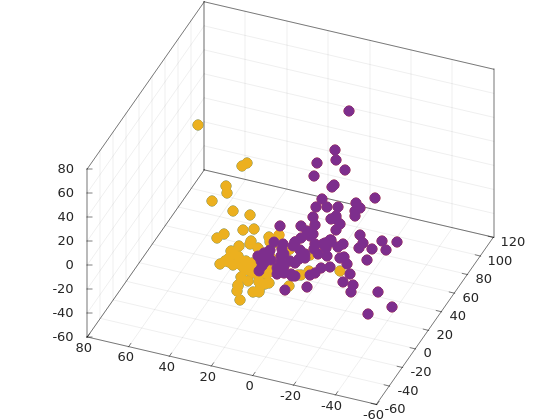
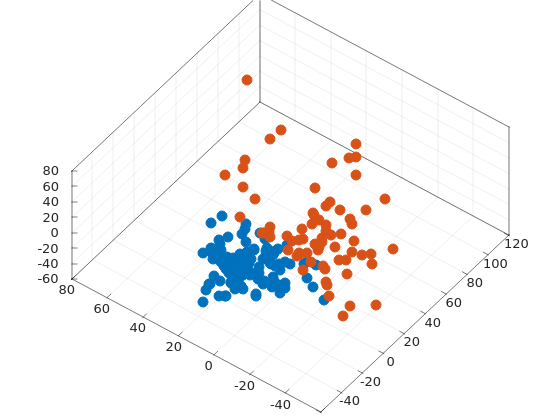
Fix k-means (thanks for nothing xtensor)

diff --git a/src/demo.cpp b/src/demo.cpp
@@ -6,6 +6,7 @@
 #include <string>
 
 #include "xtensor/xarray.hpp"
+#include "xtensor/xadapt.hpp"
 #include "xtensor/xfixed.hpp"
 #include "xtensor/xcsv.hpp"
 #include "xtensor/xrandom.hpp"
@@ -86,6 +87,7 @@ void plotData(xt::xarray<double> observations, xt::xarray<double> groups, xt::xa
         ++it;
     }
 
+    matplot::figure();
     matplot::hold(matplot::on);
     matplot::scatter3(xs, ys, zs)->marker_face(true).marker_size(10);
     xs.clear();
@@ -112,30 +114,37 @@ void plotData(xt::xarray<double> observations, xt::xarray<double> groups, xt::xa
 }
 
 
-xt::xarray<double> computeKMeans(
-    xt::xarray<double> observations,
-    xt::xarray<double> VTxyz,
-    unsigned max_iters
-)
+std::tuple<xt::xarray<double>, xt::xtensor_fixed<double, xt::xshape<2, 3>>>
+computeKMeans(xt::xarray<double> observations,
+              xt::xarray<double> VTxyz,
+              unsigned max_iters)
 {
     xt::xarray<double> points = xt::linalg::dot(observations, xt::transpose(VTxyz));
 
     size_t point_count = points.shape()[0];
-    xt::xarray<double> groups = xt::empty<double>(std::vector<size_t>{point_count, 1});
+    xt::xarray<double> groups = xt::ones<double>(std::vector<size_t>{point_count, 1});
     xt::xarray<double> old_groups = groups;
 
+    xt::xarray<bool> mask;
+    xt::xarray<double> tmp; // TODO: better name
     xt::xtensor_fixed<double, xt::xshape<1, 3>> k0, k1, p;
     // initialize cluster centers -- TODO: randomize
     k0 = xt::view(points, xt::range(2, 3), xt::all());
     k1 = xt::view(points, xt::range(8, 9), xt::all());
 
     for (unsigned i = 0; i < max_iters; ++i) {
-        for (size_t i = 0; i < point_count; ++i) {
-            p = xt::view(points, xt::range(i, i + 1), xt::all());
+        for (size_t j = 0; j < point_count; ++j) {
+            p = xt::view(points, xt::range(j, j + 1), xt::all());
+            //std::cout << "p=" << p << std::endl;
+            //std::cout << "k1=" << k1 << std::endl;
+            //std::cout << "k1-p=" << (k1 - p) << std::endl;
+            //std::cout << "norm k0 - p=" << xt::linalg::norm(xt::eval(k0 - p)) << std::endl;
+            //std::cout << "norm k1 - p=" << xt::linalg::norm(xt::eval(k1 - p)) << std::endl;
+            //std::cout << (xt::linalg::norm(k0 - p) - xt::linalg::norm(k1 - p)) << std::endl;
             if (xt::linalg::norm(k0 - p) < xt::linalg::norm(k1 - p)) {
-                groups(i) = 0.0;
+                groups(j, 0) = 0.0;
             } else {
-                groups(i) = 1.0;
+                groups(j, 0) = 1.0;
             }
         }
 
@@ -143,8 +152,44 @@ xt::xarray<double> computeKMeans(
         old_groups = groups;
 
         // TODO: difficult to parse, split into its own fn (lambda?)?
-        k0 = xt::mean(xt::view(points, xt::drop(xt::where(groups > 0.5)[0]), xt::all()), 0);
-        k1 = xt::mean(xt::view(points, xt::keep(xt::where(groups > 0.5)[0]), xt::all()), 0);
+        //k0 = xt::mean(xt::view(points, xt::drop(xt::argwhere(groups > 0.5)), xt::all()), 0);
+        //k1 = xt::mean(xt::view(points, xt::keep(xt::argwhere(groups > 0.5)), xt::all()), 0);
+        mask = groups > 0.5;
+        mask.reshape({-1, 1});
+        tmp = xt::filter(points, xt::hstack(xt::xtuple(mask, mask, mask)));
+        k0 = xt::mean(tmp.reshape({-1, 3}), 0);
+        mask = groups < 0.5;
+        mask.reshape({-1, 1});
+        //std::cout << xt::hstack(xt::xtuple(mask, groups)) << std::endl;
+        tmp = xt::filter(points, xt::hstack(xt::xtuple(mask, mask, mask)));
+        k1 = xt::mean(tmp.reshape({-1, 3}), 0);
+    }
+
+    auto centers = xt::concatenate(xt::xtuple(k0, k1), 0);
+    return {groups, centers};
+}
+
+xt::xarray<double> testKMeans(xt::xarray<double> observations,
+                              xt::xarray<double> VTxyz,
+                              xt::xtensor_fixed<double, xt::xshape<2, 3>> centers)
+{
+    xt::xarray<double> points = xt::linalg::dot(observations, xt::transpose(VTxyz));
+
+    size_t point_count = points.shape()[0];
+    xt::xarray<double> groups = xt::empty<double>(std::vector<size_t>{point_count, 1});
+
+    xt::xtensor_fixed<double, xt::xshape<1, 3>> k0, k1, p;
+    k0 = xt::view(centers, xt::range(0, 1), xt::all());
+    k1 = xt::view(centers, xt::range(1, 2), xt::all());
+
+    
+    for (size_t i = 0; i < point_count; ++i) {
+        p = xt::view(points, xt::range(i, i + 1), xt::all());
+        if (xt::linalg::norm(k0 - p) < xt::linalg::norm(k1 - p)) {
+            groups(i, 0) = 0.0;
+        } else {
+            groups(i, 0) = 1.0;
+        }
     }
 
     return groups;
@@ -169,11 +214,26 @@ int main()
     auto VTxyz = xt::view(VT, xt::range(0, 3), xt::all());
     plotData(X, train_grp, VTxyz);
 
-    auto kmeans_grp = computeKMeans(X, VTxyz, 100);
-    plotData(X, kmeans_grp, VTxyz);
+    auto [kmeans_training_grp, centers]= computeKMeans(X, VTxyz, 100);
+    plotData(X, kmeans_training_grp, VTxyz);
 
-    auto error = xt::sum(xt::cast<int>(train_grp) ^ xt::cast<int>(kmeans_grp))();
-    std::cout << "Number of misclassified patients: " << error << std::endl;
+    auto error = xt::sum(xt::cast<int>(train_grp) ^ xt::cast<int>(kmeans_training_grp))();
+    std::cout << "Number of misclassified patients on training set: " << error << std::endl;
+
+    // TODO: the xt::stddev call is slow... consider replacing?
+    std::cout << "TODO: xt::stddev is slow, consider replacing" << std::endl;
+    xt::xarray<double> Y = (test_obs - xt::mean(test_obs, 0)) / xt::stddev(test_obs, {0});
+    std::cout << "xt::stddev finished" << std::endl;
+
+    auto kmeans_test_grp = testKMeans(Y, VTxyz, centers);
+    //std::cout << "kmeans_test_grp= " << kmeans_test_grp << std::endl;
+    //std::cout << "test_grp= " << test_grp << std::endl;
+    std::cout << "centers=" << centers << std::endl;
+    plotData(Y, test_grp, VTxyz);
+    plotData(Y, kmeans_test_grp, VTxyz);
+
+    error = xt::sum(xt::cast<int>(test_grp) ^ xt::cast<int>(kmeans_test_grp))();
+    std::cout << "Number of misclassified patients on test set: " << error << std::endl;
 
     return 0;
 }

diff --git a/README.md b/README.md
@@ -26,9 +26,12 @@ At the end of this step, the training portion of the dataset is plotted (colored
 K-Means was implemented as the first algorithm with which to analyze the data.
 It is an unsupervised technique, so the group labels are not used by the algorithm.
 
-Initial results were shockingly good, correctly clustering all but three of the observations together.
+Performance of this algorithm was middling, as roughly 50 patients are put into the wrong cluster on the training set.
+The cluster centers found from running the algorithm on the training set were used to 'predict' which group the patients in the test set belong to (based on which center was closer).
+Results from the latter experiment were terrible, with the approach being little better than a coin flip.
+
 These results appear to be repeatable, and have been tested under different random seeds and initial guesses (for the cluster centers).
-An image of the clusters is shown below, which clearly shows the surprising accuracy of the algorithm on this particular dataset (and preparation thereof).
+An image of the training set clusters is shown below.
 
 ![somebody got their filepath wrong](images/k-means.png)
 
